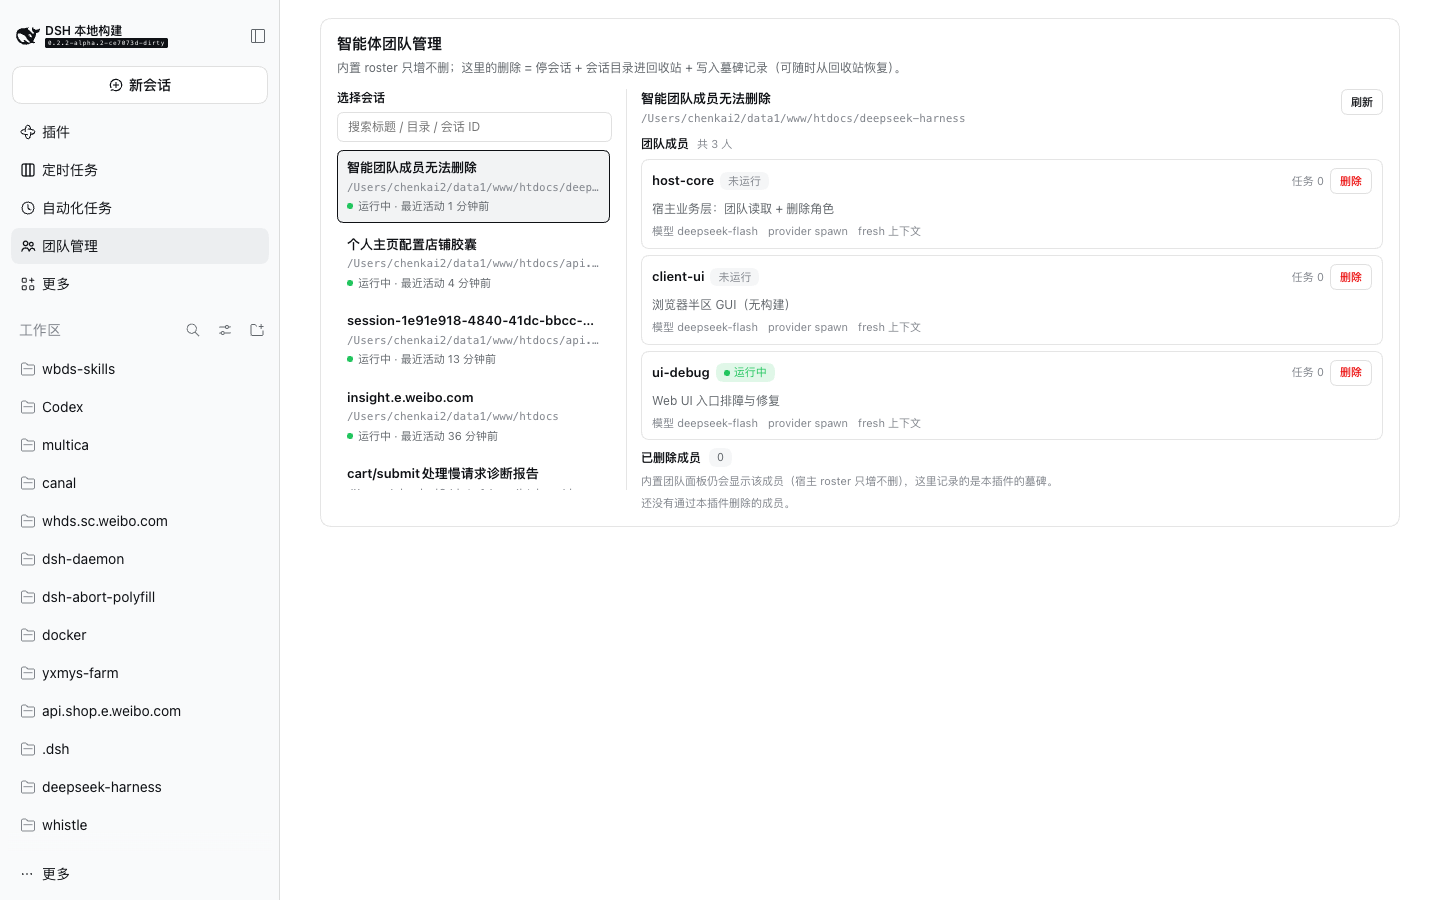
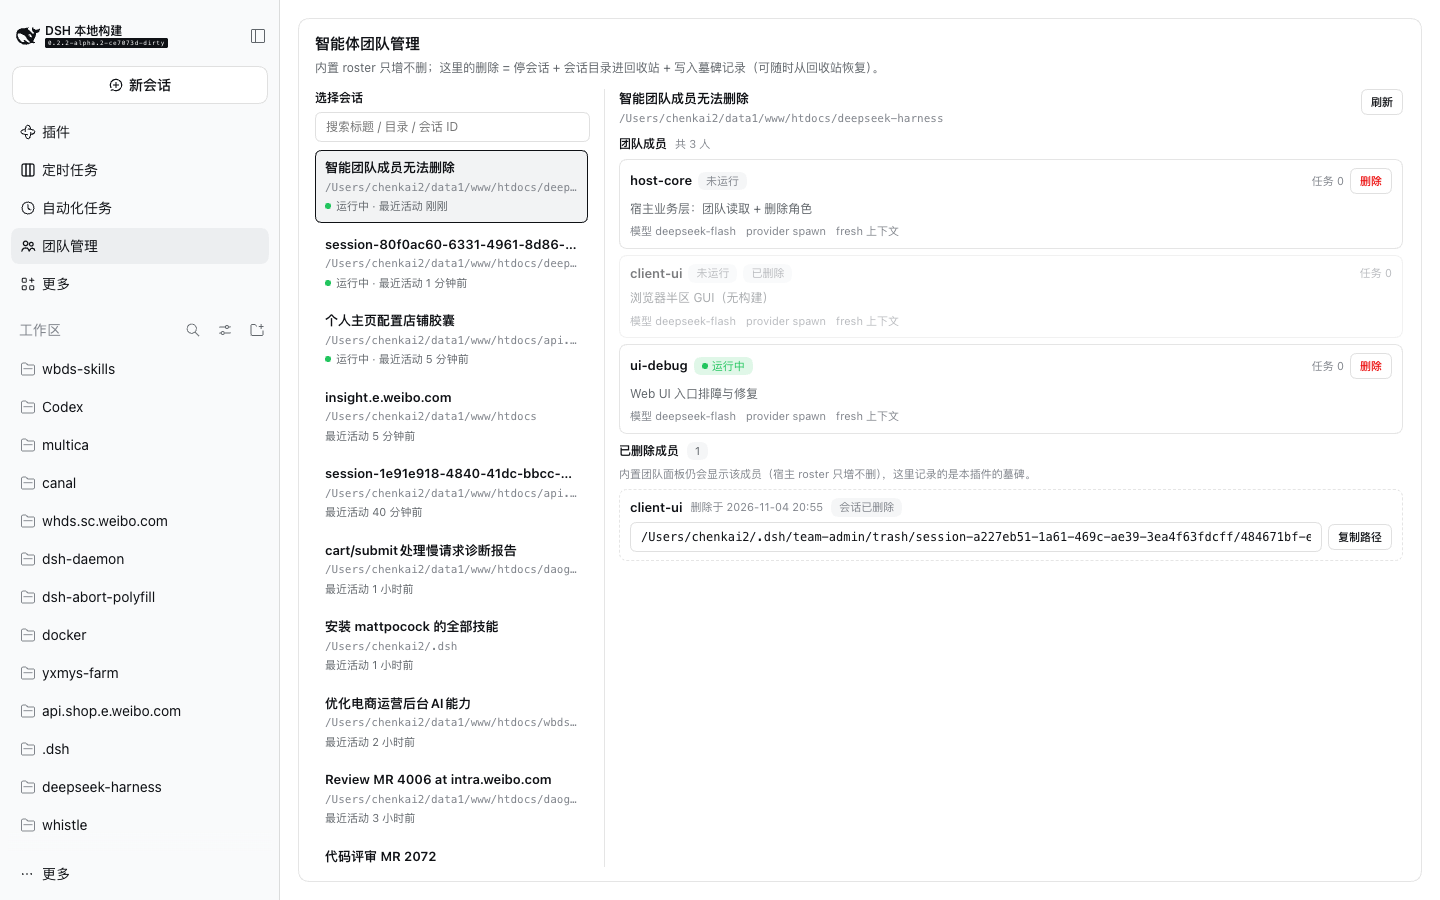
feat(ui): 管理页撑满全屏（flex 链打通到卡片与两栏，去掉 1080 宽度上限）

diff --git a/src/client.js b/src/client.js
@@ -104,9 +104,17 @@
 .ta-confirm__actions{display:flex;align-items:center;gap:6px;flex-wrap:wrap}
 .ta-summary{font-size:12px;color:var(--ta-text-sub);line-height:1.5}
 .ta-host{display:block;min-width:0}
-.ta-main{flex:1;min-height:0;overflow:auto;padding:18px;background:var(--dsw-alias-bg-base)}
-.ta-main__inner{max-width:1080px;margin:0 auto;min-width:0}
-@media (max-width:760px){.ta-body{grid-template-columns:1fr}.ta-col--list{padding-right:0;padding-bottom:10px;border-right:0;border-bottom:1px solid var(--ta-border)}.ta-sessions{max-height:220px}}
+/* 整页面板：宿主 main 槽是 flex column，这里把卡片与左右两栏一路撑满，滚动只发生在内部列表 */
+.ta-main{display:flex;flex-direction:column;flex:1;min-height:0;overflow:hidden;padding:18px;background:var(--dsw-alias-bg-base)}
+.ta-main__inner{display:flex;flex-direction:column;flex:1;min-height:0;width:100%;min-width:0}
+.ta-main .ta-host{display:flex;flex-direction:column;flex:1;min-height:0}
+.ta-main .ta-root{flex:1;min-height:0}
+.ta-main .ta-body{flex:1;min-height:0;grid-template-rows:minmax(0,1fr);align-items:stretch}
+.ta-main .ta-col{min-height:0}
+.ta-main .ta-list-host{display:flex;flex-direction:column;flex:1;min-height:0}
+.ta-main .ta-sessions{flex:1;min-height:0;max-height:none}
+.ta-main .ta-col--detail{overflow:auto;padding-right:2px}
+@media (max-width:760px){.ta-body{grid-template-columns:1fr}.ta-col--list{padding-right:0;padding-bottom:10px;border-right:0;border-bottom:1px solid var(--ta-border)}.ta-sessions{max-height:220px}.ta-main .ta-body{grid-template-rows:minmax(0,1fr) minmax(0,1fr)}}
 @media (prefers-reduced-motion:reduce){.ta-btn{transition:none}}
 `
 
